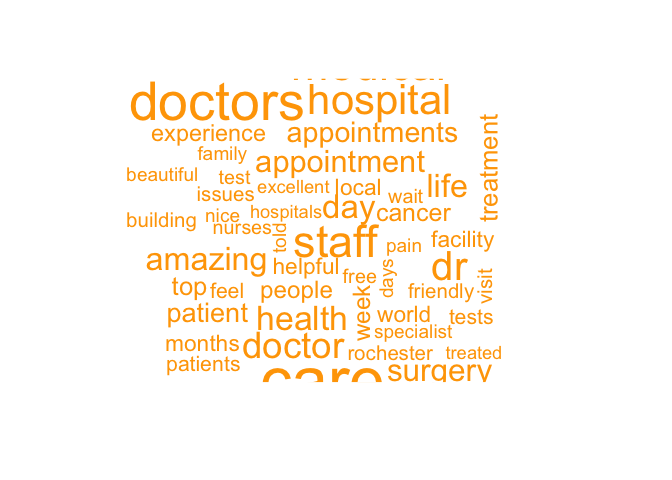
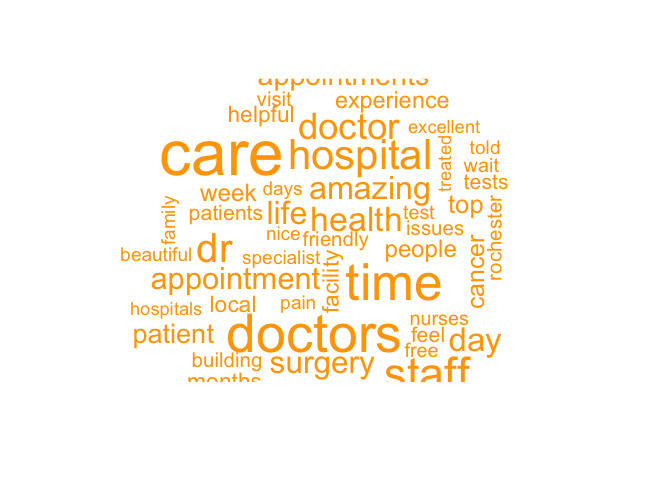
Afternoon push

Changed region(s): [[0.1875, 0.1562, 0.75, 0.8125]]

diff --git a/Mayo-Clinic-Yelp-Review-Text-Analysis.md b/Mayo-Clinic-Yelp-Review-Text-Analysis.md
@@ -36,8 +36,7 @@ data are my own.
 
 Things Need to Do/Questions:
 
--   Need to create wordclouds
--   Import and adjust dictionaries
+-   Import and adjust dictionaries + describe and cite them.
 -   Fix overall grammar
 -   Need to List of the metrics in US News for evaluating hospitals and
     pick up where they left off or, pick up on what is missing in their
@@ -48,7 +47,7 @@ Things Need to Do/Questions:
 -   learn how to remove file from Github (html document) but keep
     locally
 -   look for a dictionary that has Male and Female first names and run
-    it agaisnt data to see how many of each gender is present in the
+    it against data to see how many of each gender is present in the
     reviews
 -   look for code how to highlight certain columns in a barchart (i.e.,
     ratings barchart below)
@@ -583,8 +582,6 @@ data4 <- data2 %>%
   anti_join(stop_words) #we have less words now, like 1/3 got erased
 ```
 
-    ## Joining, by = "word"
-
 ``` r
 #count token data again without the stop words
 data4 %>%
@@ -627,8 +624,6 @@ Let’s see if that works
 data5 <- data4 %>%
   anti_join(stop_words2)
 ```
-
-    ## Joining, by = "word"
 
 ``` r
 #count token data again without the stop words and arrange the 
@@ -709,7 +704,7 @@ ggplot(data8, aes(x=word2, y= n)) +
   theme_classic()
 ```
 
-![](Mayo-Clinic-Yelp-Review-Text-Analysis_files/figure-gfm/unnamed-chunk-20-1.png)<!-- -->
+![](Mayo-Clinic-Yelp-Review-Text-Analysis_files/figure-gfm/unnamed-chunk-22-1.png)<!-- -->
 
 ``` r
 wordcloud(
@@ -720,7 +715,13 @@ wordcloud(
 )
 ```
 
-![](Mayo-Clinic-Yelp-Review-Text-Analysis_files/figure-gfm/unnamed-chunk-21-1.png)<!-- -->
+    ## Warning in wordcloud(words = data7$word, freq = data7$n, max.words = 50, :
+    ## department could not be fit on page. It will not be plotted.
+
+    ## Warning in wordcloud(words = data7$word, freq = data7$n, max.words = 50, :
+    ## treatment could not be fit on page. It will not be plotted.
+
+![](Mayo-Clinic-Yelp-Review-Text-Analysis_files/figure-gfm/unnamed-chunk-23-1.png)<!-- -->
 
 The wordcloud above shows the overall patient word count from the 228
 reviews. Now let’s create two additional wordclouds for those who rated
@@ -774,15 +775,18 @@ wordcloud(
 ```
 
     ## Warning in wordcloud(words = data_A1T$word, freq = data_A1T$n, max.words = 50, :
-    ## doctor could not be fit on page. It will not be plotted.
-
-    ## Warning in wordcloud(words = data_A1T$word, freq = data_A1T$n, max.words = 50, :
-    ## insurance could not be fit on page. It will not be plotted.
-
-    ## Warning in wordcloud(words = data_A1T$word, freq = data_A1T$n, max.words = 50, :
     ## appointment could not be fit on page. It will not be plotted.
 
-![](Mayo-Clinic-Yelp-Review-Text-Analysis_files/figure-gfm/unnamed-chunk-23-1.png)<!-- -->
+    ## Warning in wordcloud(words = data_A1T$word, freq = data_A1T$n, max.words = 50, :
+    ## medical could not be fit on page. It will not be plotted.
+
+    ## Warning in wordcloud(words = data_A1T$word, freq = data_A1T$n, max.words = 50, :
+    ## hospital could not be fit on page. It will not be plotted.
+
+    ## Warning in wordcloud(words = data_A1T$word, freq = data_A1T$n, max.words = 50, :
+    ## care could not be fit on page. It will not be plotted.
+
+![](Mayo-Clinic-Yelp-Review-Text-Analysis_files/figure-gfm/unnamed-chunk-25-1.png)<!-- -->
 
 ``` r
   wordcloud(
@@ -792,7 +796,7 @@ wordcloud(
   colors = 'orange')
 ```
 
-![](Mayo-Clinic-Yelp-Review-Text-Analysis_files/figure-gfm/unnamed-chunk-23-2.png)<!-- -->
+![](Mayo-Clinic-Yelp-Review-Text-Analysis_files/figure-gfm/unnamed-chunk-25-2.png)<!-- -->
 
 Interesting. There is not much of a big difference amongst the three
 groups. There are two insights from this:
@@ -805,6 +809,63 @@ Next, lets use sentiment dictionaries on our three groups; overall, 1
 rating, and 5 rating.
 
 ## Sentiment: Positive and Negative Words
+
+**Explain more about Sentiment Analysis and cite sources**
+
+``` r
+#install.packages('SentimentAnalysis') #installed on 12/12/22
+# install.packages('textdata') #installed on 12/12/22
+
+#load libraries
+library(SentimentAnalysis)
+library(textdata)
+
+#use data6 as it is the most funnelled data
+sentiment_data <- data6 %>%
+  #used the nrc dictionary
+  inner_join(get_sentiments('nrc'))
+
+sentiment_data_nrc <- sentiment_data %>%
+  count(sentiment) %>%
+  mutate(sentiment2 = fct_reorder(sentiment, n))
+
+ggplot(sentiment_data_nrc, aes(x= sentiment2, y=n)) +
+  geom_col(fill = '#669933') +
+  coord_flip() +
+  theme_classic() +
+  labs(title = 'Mayo Clinic Sentiment Counts in NRC Dictionary',
+       x= 'Sentiment',
+       y = 'Counts')
+```
+
+![](Mayo-Clinic-Yelp-Review-Text-Analysis_files/figure-gfm/unnamed-chunk-26-1.png)<!-- -->
+
+Interesting.
+
+Let’s try another dictionary, ‘loughran’
+
+``` r
+#use data6 as it is the most funneled data
+sentiment_data2 <- data6 %>%
+  #used the nrc dictionary
+  inner_join(get_sentiments('loughran'))
+
+sentiment_data_loughran <- sentiment_data2 %>%
+  count(sentiment) %>%
+  mutate(sentiment2 = fct_reorder(sentiment, n))
+
+ggplot(sentiment_data_loughran, aes(x= sentiment2, y=n)) +
+  geom_col(fill = '#FFCC66', width = 0.6) +
+  coord_flip() +
+  theme_classic() +
+  labs(title = 'Mayo Clinic Sentiment Counts in Loughran Dictionary',
+       x= 'Sentiment',
+       y = 'Counts')
+```
+
+![](Mayo-Clinic-Yelp-Review-Text-Analysis_files/figure-gfm/unnamed-chunk-27-1.png)<!-- -->
+
+Even more interesting.
 
 ## Limitations
 
